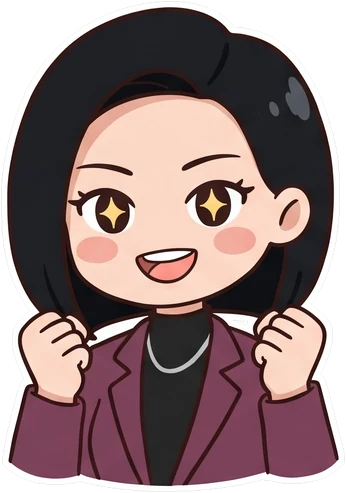
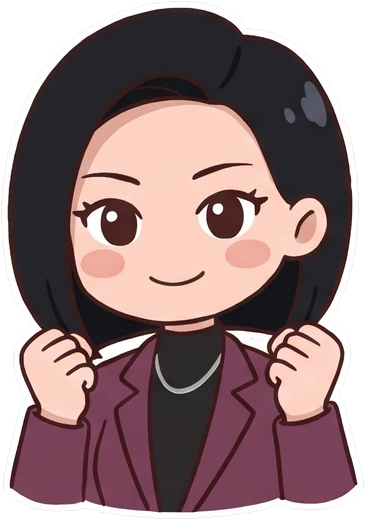
Kamome House: new yay faces and seasonal outfits
Claude-Session: https://claude.ai/code/session_01ERzodyXY4NGG79AwRziZtV

diff --git a/data/story.js b/data/story.js
@@ -1,6 +1,6 @@
 /* Kamome House: the Japanese Foundations story (one optional episode per unit).
    GENERATED from story/kamome-house-s1.md by tools/md_to_story.js. Edit the script, not this file. */
-window.ICA_STORY = {"cast":{"cheska":{"name":"Cheska","ja":"チェスカ","art":["hello","think","oops","yay","tip","sleepy","talk","flat","sad","cross"],"acc":"#7a8450"},"yen":{"name":"Yến","ja":"イエン","art":["hello","think","oops","yay","tip","sleepy","talk","flat","sad","cross"],"acc":"#2f8a8a"},"rodrigo":{"name":"Rodrigo","ja":"ロドリゴ","art":["hello","think","oops","yay","tip","sleepy","talk","flat","sad","cross"],"acc":"#b8573a"},"toby":{"name":"Toby","ja":"トビー","art":["hello","think","oops","yay","tip","sleepy","talk","flat","sad","cross"],"acc":"#5b9bd5"},"aoi":{"name":"Aoi","ja":"あおい","art":["hello","think","oops","yay","tip","sleepy","talk","flat","sad","cross"],"acc":"#7d3c5c"},"mariya":{"name":"Mariya","ja":"まりや","art":["hello","think","oops","yay","tip","sleepy","talk","flat","sad","cross"],"acc":"#e8735f"},"kaito":{"name":"Kaito","ja":"かいと","art":["hello","think","oops","yay","tip","sleepy","talk","flat","sad","cross"],"acc":"#3f4a8a"},"fumiko":{"name":"Mrs. Satō","ja":"さとうさん","art":["hello","think","oops","yay","tip","sleepy","talk","flat","sad","cross"],"acc":"#9b86c2"},"shoichi":{"name":"Mr. Satō","ja":"さとうさん","art":["hello","think","oops","yay","tip","sleepy","talk","flat","sad","cross"],"acc":"#c9a03c"},"chiyo":{"name":"Chiyo","ja":"ちよさん","acc":"#8c7a5b","art":["talk","yay","think","sad"]},"matsumoto":{"name":"Mr. Matsumoto","ja":"まつもとさん","acc":"#6f7f8f","art":["talk","think","sad","yay"]},"hiroyuki":{"name":"Hiroyuki","ja":"ひろゆき","acc":"#7a6a58","art":["talk","think","sad","cross"]},"megumi":{"name":"Megumi","ja":"めぐみ","acc":"#a0707e","art":["talk","yay","think","sad"]},"sota":{"name":"Sōta","ja":"そうた","acc":"#7d9a5f","art":["talk","yay","think","sad"]},"kuze":{"name":"Kaito's father","ja":"かいとの父","acc":"#5c6478","art":["talk","think","sad","yay"]},"dewi":{"name":"Dewi","ja":"デウィ","acc":"#5f8f86","art":["talk","yay","think","sad"]},"captain":{"name":"Old captain","ja":"せんちょう","acc":"#4f6d7a","art":["talk","yay"]},"amoako":{"name":"Dr. Amoako","ja":"アモアコ先生","acc":"#8a6d3b","art":["talk","yay"]},"lorraine":{"name":"Lorraine","ja":"ロレイン","acc":"#a8708f","art":["talk","yay"]}},"episodes":[{"unit":"e3u1","n":1,"title":"Names on the mailboxes","month":"April","level":"Kana only","enDefault":true,"parts":[{"t":"narr","text":"Ngô Hải Yến gets off the bus with two suitcases. It is April in Shioura, a harbor town on the Sea of Japan. She has a photo of the house from the rental listing on her phone, so she knows it at once: an old wooden house with two floors. She can hear the sea somewhere behind it."},
+window.ICA_STORY = {"cast":{"cheska":{"name":"Cheska","ja":"チェスカ","art":["hello","think","oops","yay","tip","sleepy","talk","flat","sad","cross"],"acc":"#7a8450","outfits":{"summer":["hello"]}},"yen":{"name":"Yến","ja":"イエン","art":["hello","think","oops","yay","tip","sleepy","talk","flat","sad","cross"],"acc":"#2f8a8a","outfits":{"summer":["talk","yay"]}},"rodrigo":{"name":"Rodrigo","ja":"ロドリゴ","art":["hello","think","oops","yay","tip","sleepy","talk","flat","sad","cross"],"acc":"#b8573a","outfits":{"summer":["hello","sad","think","yay"]}},"toby":{"name":"Toby","ja":"トビー","art":["hello","think","oops","yay","tip","sleepy","talk","flat","sad","cross"],"acc":"#5b9bd5","outfits":{"summer":["cross","hello","oops","talk","think","tip"]}},"aoi":{"name":"Aoi","ja":"あおい","art":["hello","think","oops","yay","tip","sleepy","talk","flat","sad","cross"],"acc":"#7d3c5c"},"mariya":{"name":"Mariya","ja":"まりや","art":["hello","think","oops","yay","tip","sleepy","talk","flat","sad","cross"],"acc":"#e8735f","outfits":{"summer":["flat","oops","talk","think","tip","yay"]}},"kaito":{"name":"Kaito","ja":"かいと","art":["hello","think","oops","yay","tip","sleepy","talk","flat","sad","cross"],"acc":"#3f4a8a"},"fumiko":{"name":"Mrs. Satō","ja":"さとうさん","art":["hello","think","oops","yay","tip","sleepy","talk","flat","sad","cross"],"acc":"#9b86c2"},"shoichi":{"name":"Mr. Satō","ja":"さとうさん","art":["hello","think","oops","yay","tip","sleepy","talk","flat","sad","cross"],"acc":"#c9a03c","outfits":{"winter":["flat"],"hospital":["flat","think"]}},"chiyo":{"name":"Chiyo","ja":"ちよさん","acc":"#8c7a5b","art":["talk","yay","think","sad"]},"matsumoto":{"name":"Mr. Matsumoto","ja":"まつもとさん","acc":"#6f7f8f","art":["talk","think","sad","yay"]},"hiroyuki":{"name":"Hiroyuki","ja":"ひろゆき","acc":"#7a6a58","art":["talk","think","sad","cross"]},"megumi":{"name":"Megumi","ja":"めぐみ","acc":"#a0707e","art":["talk","yay","think","sad"],"outfits":{"nurse":["cross","hello","talk"]}},"sota":{"name":"Sōta","ja":"そうた","acc":"#7d9a5f","art":["talk","yay","think","sad"],"outfits":{"winter":["cross","talk","yay"]}},"kuze":{"name":"Kaito's father","ja":"かいとの父","acc":"#5c6478","art":["talk","think","sad","yay"]},"dewi":{"name":"Dewi","ja":"デウィ","acc":"#5f8f86","art":["talk","yay","think","sad"]},"captain":{"name":"Old captain","ja":"せんちょう","acc":"#4f6d7a","art":["talk","yay"]},"amoako":{"name":"Dr. Amoako","ja":"アモアコ先生","acc":"#8a6d3b","art":["talk","yay"]},"lorraine":{"name":"Lorraine","ja":"ロレイン","acc":"#a8708f","art":["talk","yay"]}},"episodes":[{"unit":"e3u1","n":1,"title":"Names on the mailboxes","month":"April","level":"Kana only","enDefault":true,"parts":[{"t":"narr","text":"Ngô Hải Yến gets off the bus with two suitcases. It is April in Shioura, a harbor town on the Sea of Japan. She has a photo of the house from the rental listing on her phone, so she knows it at once: an old wooden house with two floors. She can hear the sea somewhere behind it."},
 {"t":"narr","text":"Before she finds the doorbell, she finds the mailboxes. There are nine on the fence by the gate: one for each room, and one for the Satōs, who own the house. Each one shows only a family name. The house rule is that labels are written in kana, so that new tenants can read them. Some labels are new. Some are faded. One of them is already hers."},
 {"t":"mailboxes","title":"The mailboxes","hint":"Read each name, then tap the mailbox to check.","items":[{"room":"101","ja":"イババオ","ro":"Ibabao","who":"Cheska Ibabao, from the Philippines. She moved in last October. Four beats (Japanese counts sounds in beats; here, each kana is one beat), with two ば in a row: イ・バ・バ・オ.","old":true},{"room":"102","ja":"モンドラゴン","ro":"Mondragón","who":"Rodrigo Mondragón, from Mexico. New this April. His label is ready, but he arrives on Saturday. Six beats, two of them ン: モ・ン・ド・ラ・ゴ・ン."},{"room":"103","ja":"せと","ro":"Seto","who":"Mariya Seto, from Shiojima, an island an hour away by ferry. She moved in a year ago, so she has lived here the longest. Two beats: せ・と.","old":true},{"room":"201","ja":"ウィットロック","ro":"Whitlock","who":"Toby Whitlock, from Australia. He moved in last October, after half a year in the university dorm, the same week as Cheska. His name barely fits on the label. ウィ is how katakana writes *wi*. Each small ッ is a one-beat pause: ウィ・ッ・ト・ロ・ッ・ク.","old":true},{"room":"202","ja":"ひらかわ","ro":"Hirakawa","who":"Aoi Hirakawa, a master's student from Saitama. New this April. Four beats: ひ・ら・か・わ."},{"room":"203","ja":"くぜ","ro":"Kuze","who":"Kaito Kuze, a first-year student from a small mountain town in Gifu. New this April. He wrote his own label, in very small letters. Two beats: く・ぜ."},{"room":"204","ja":"ゴー","ro":"Ngô","who":"Ngô Hải Yến, from Vietnam. New today. Katakana can't write the *ng* sound at the start, so Ngô becomes ゴー. The ー makes the vowel two beats long."},{"room":"205","ja":"","ro":"","who":"Room 205. There is no name on the label yet."}],"landlord":{"label":"The Satōs' house","ja":"さとう","ro":"Satō","who":"Shōichi-san and Fumiko-san. They own Kamome House and live in a small house across the street. Three beats: さ・と・う. The う makes the *o* long.","old":true}},
 {"t":"narr","text":"Above the gate there is a wooden sign: かもめそう. *Kamome* means seagull. Many small apartment houses have names that end in *-sō*. A real seagull is sitting on the sign."},
